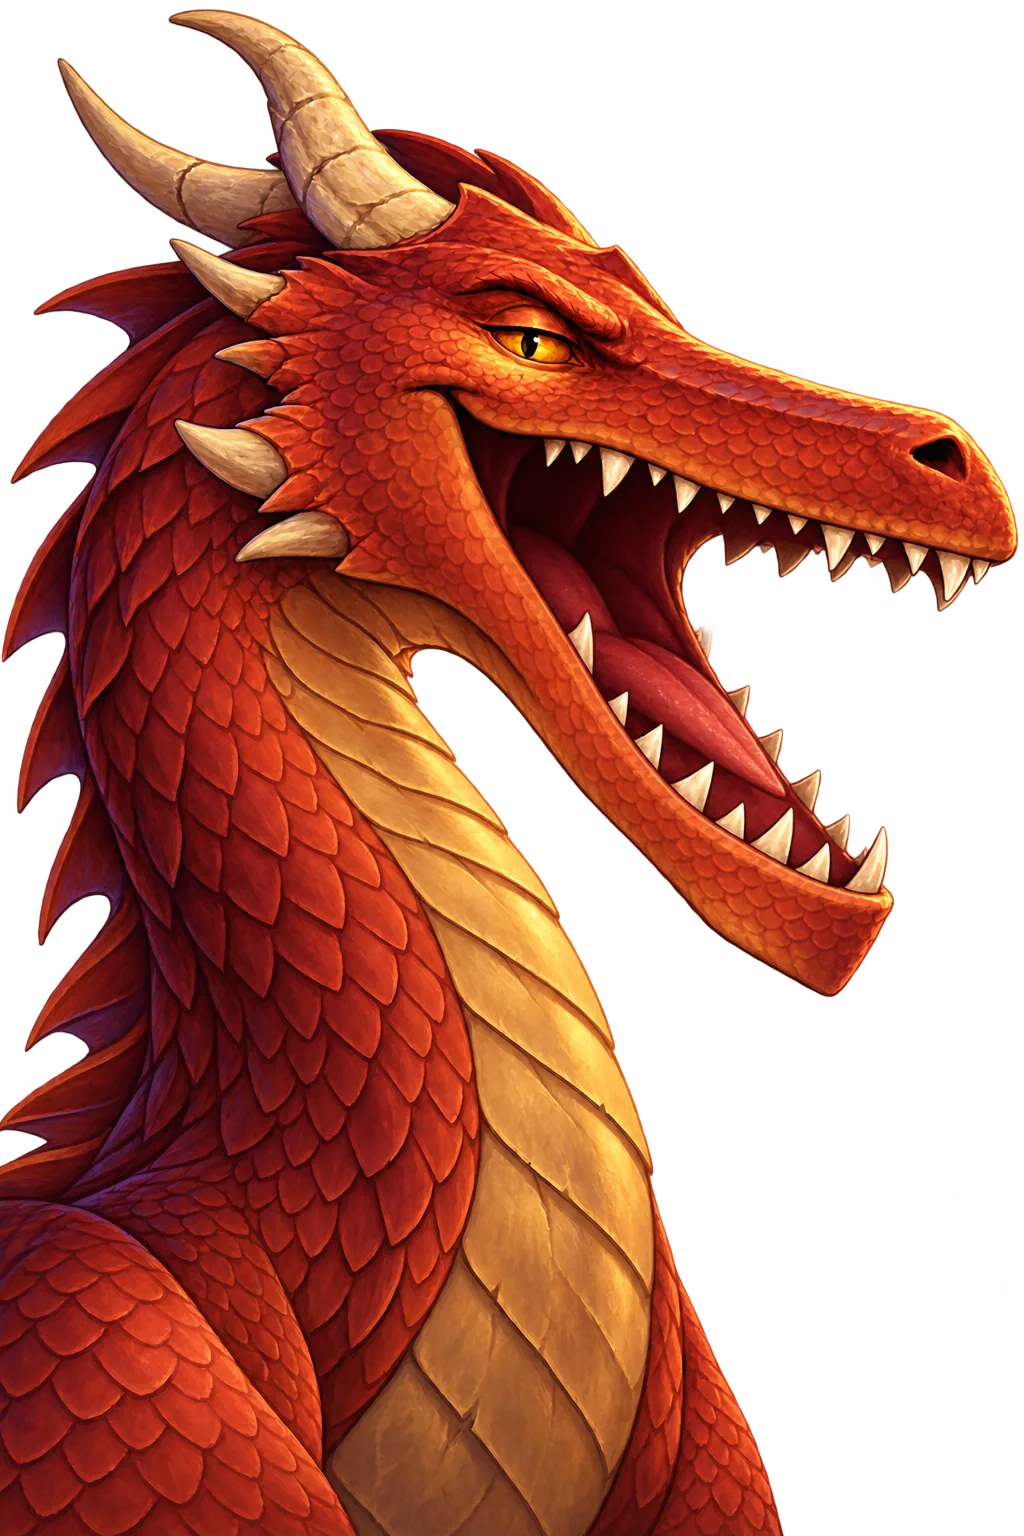
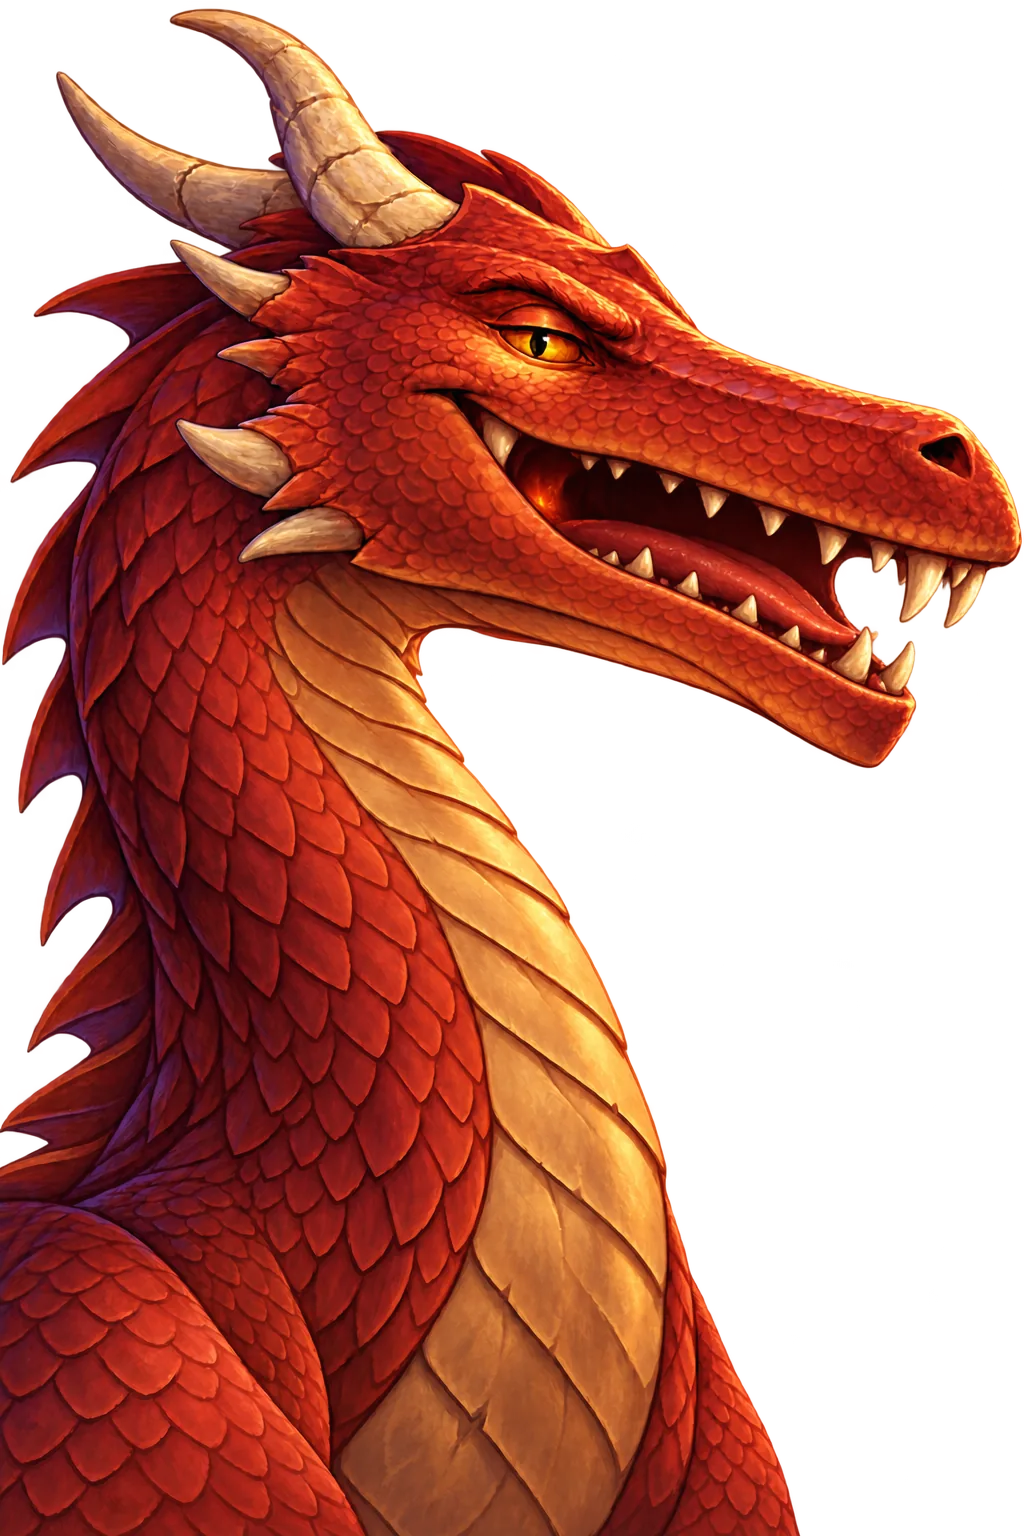
Task Dragon: new open-mouth painting with a smaller jaw drop
Michael's redo from the open-jaw guide: the lower jaw swings about 20 degrees,
so a quest in his jaws now sits between his teeth instead of above a gaping
mouth. sw v53.

Claude-Session: https://claude.ai/code/session_01JDekeMcFfSEJxRY99EnmHp

diff --git a/sw.js b/sw.js
@@ -1,6 +1,6 @@
 // Keeps the app opening instantly and working offline. Data requests to
 // Supabase and Google always go to the network.
-const VERSION = 'daybook-v52';
+const VERSION = 'daybook-v53';
 const SHELL = ['./', 'index.html', 'app.css', 'manifest.webmanifest', 'js/app.js', 'js/store.js', 'js/calendar.js', 'js/ai.js', 'js/tree.js', 'js/util.js', 'js/roadmap.js', 'js/repeat.js', 'js/track.js', 'js/stats.js', 'js/notes.js', 'js/voice.js', 'js/quest.js', 'js/remind.js', 'js/routine.js', 'js/regions.js', 'js/kingdom.js', 'js/keep3d.js', 'js/vendor/three.min.js', 'js/crt.js', 'js/sfx.js', 'js/dragon.js', 'js/fight.js', 'js/vendor/supabase.js', 'icons/icon-192.png'];
 
 self.addEventListener('install', e => {
